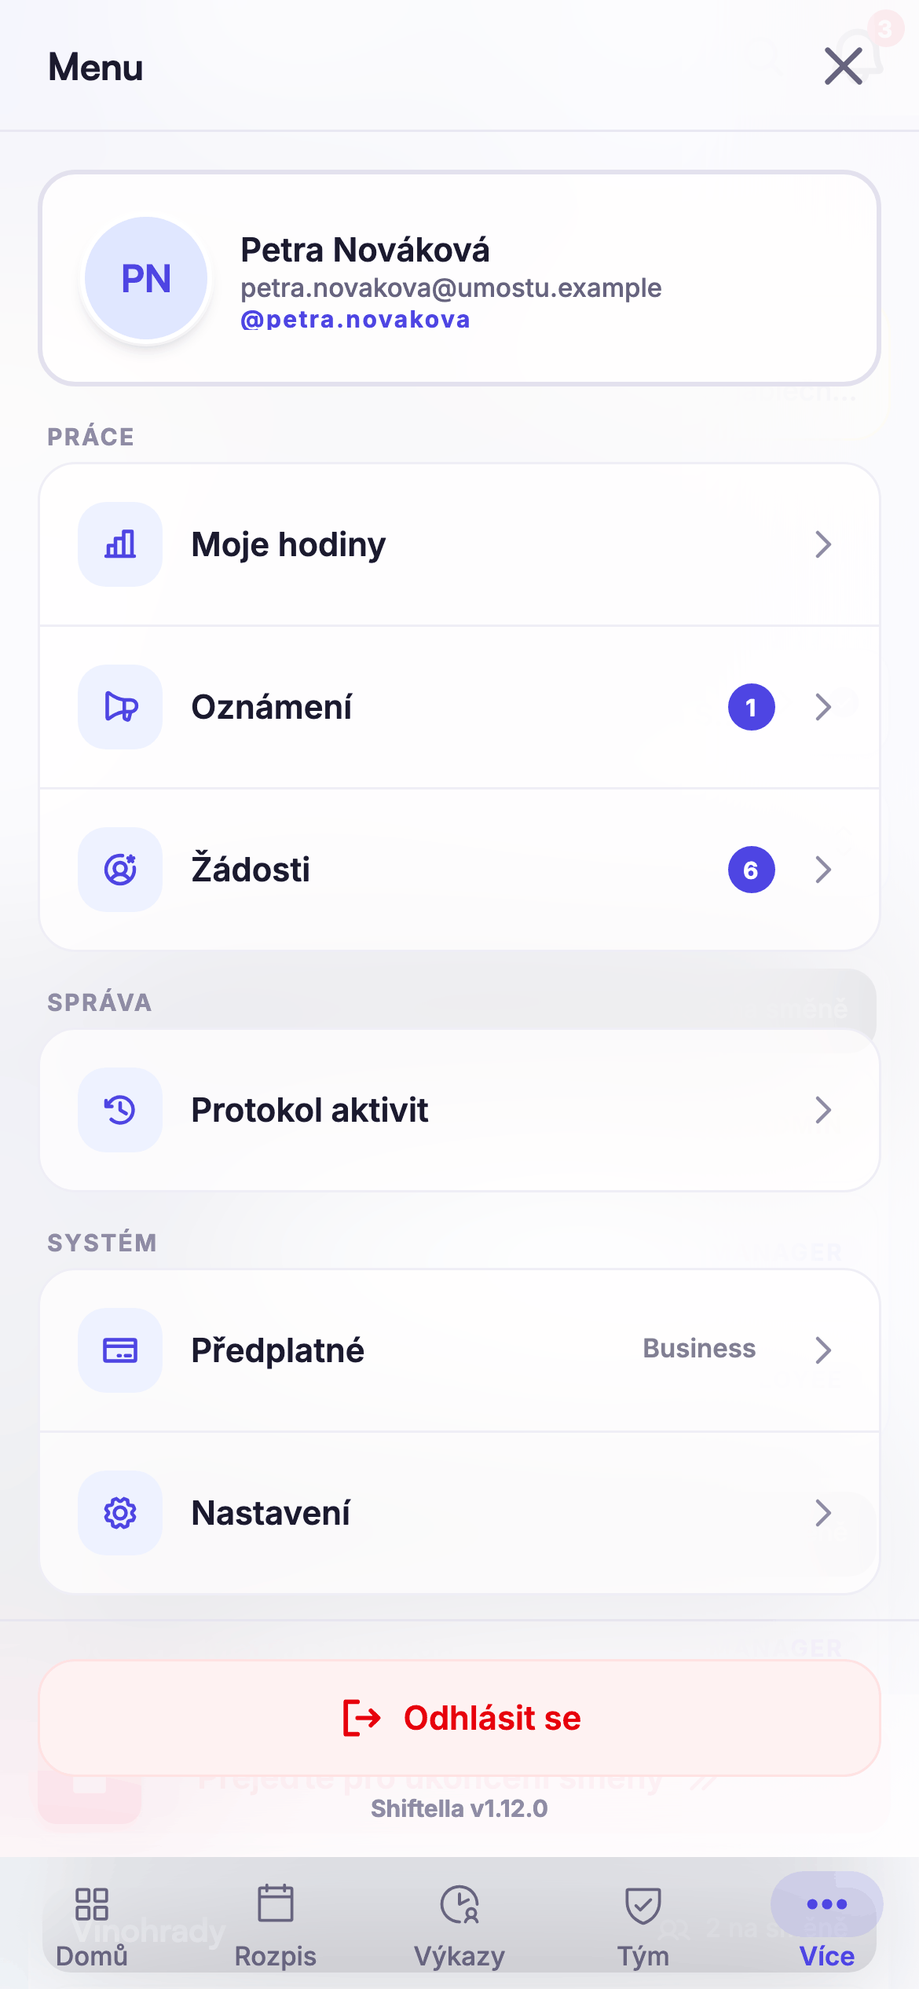
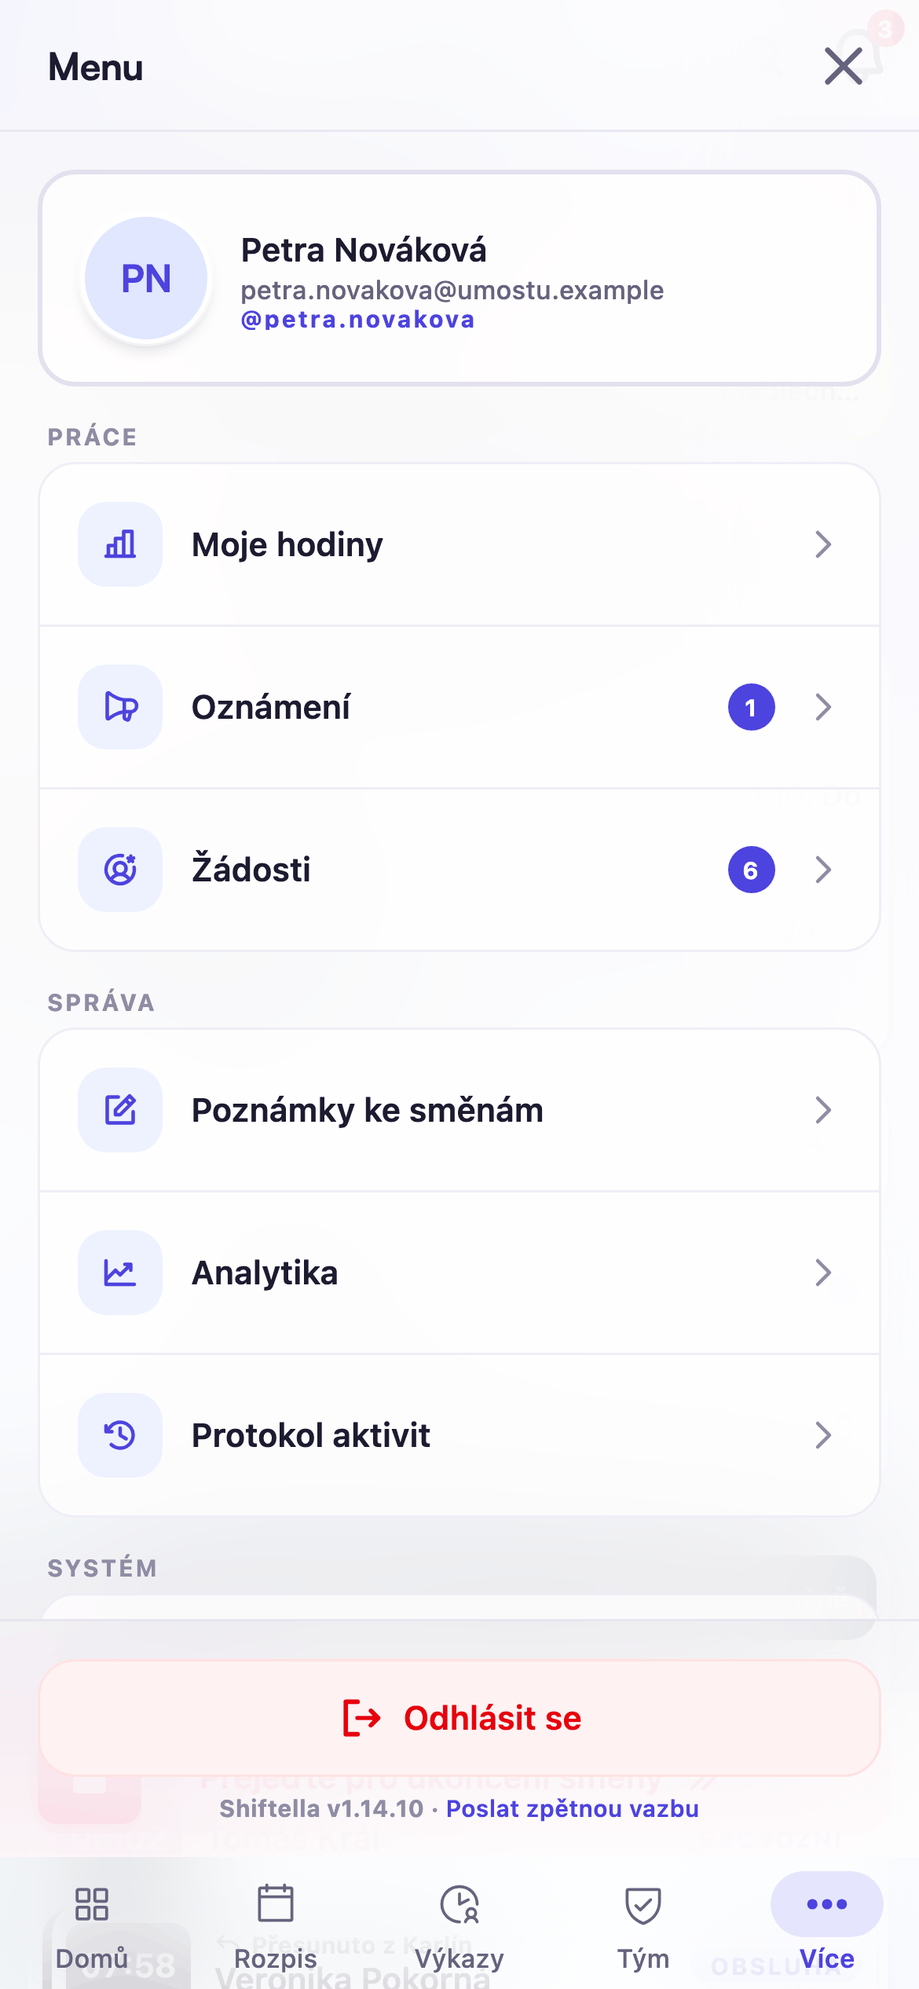
docs: fresh screenshots, ROADMAP up to v1.14.10, README tour additions
- Screenshots re-shot from the current UI (light + dark hero and phones,
  product tour), new analytics + documents rows in the README tour.
- README: rota cost, handover on the live board, the v1.14.2 security pass.
- ROADMAP: v1.14 Frýdlant in Shipped, plan items marked done (reminders, rota
  cost, payroll, documents, notes, targeted announcements, SK/UK, analytics,
  demo, feedback, help, DB security), backlog statuses, recommendations
  rewritten for what's next, codename G next.

diff --git a/ROADMAP.md b/ROADMAP.md
@@ -4,12 +4,25 @@ Living plan for **Shiftella**. Direction, not commitments — dates and scope
 change. Concrete work is tracked as **GitHub Issues** grouped into **Milestones**;
 this file is the high-level story, plus a large **idea backlog** to draw from.
 
-_Last updated: November 24, 2026 · current version 1.13.0 “Ejpovice”._
+_Last updated: November 25, 2026 · current version 1.14.10 “Frýdlant”._
 
 ---
 
 ## ✅ Shipped (recent highlights)
 
+- **v1.14 “Frýdlant”** (1.14.0 – 1.14.10) — **leave**: 12 absence kinds, part-day
+  requests, vacation balance in hours and a **náhradní volno** bank for holiday
+  work; **shift notes & handover** for the next person; **rota cost** in the
+  grid before publishing; **payroll export** (Excel / CSV / Money S3 XML) with
+  personal numbers; **owner analytics** (Business); **employee documents** with
+  expiry reminders; **shift reminders**, a **morning digest** for managers,
+  **targeted announcements** with read receipts and a **setup checklist**;
+  **help centre** and **in-app feedback**; **Slovak and Ukrainian**.
+  Patches: a security pass (server-time clock-in, sign-in rate limit, locked-down
+  push function, 8-character passwords), a new privacy policy, the **enforced
+  CSP**, self-hosted fonts, an **in-browser demo** at `/demo/` (the full app on
+  a sample café, nothing stored), polished layouts and motion on phones and
+  tablets.
 - **v1.13.0 “Ejpovice”** — **Telegram bot** (link from Settings with a one-time
   code; English commands with a button menu: shifts week by week with
   confirm, today, hours month by month, announcements, approve / decline
@@ -56,8 +69,8 @@ _Last updated: November 24, 2026 · current version 1.13.0 “Ejpovice”._
   provisioning flow, realtime board with auto-reconnect, midnight auto-end.
 - **Timesheets & exports** — admin shift management, per-employee & team exports
   (PDF / Excel / CSV) with native share, **Czech-correct PDF fonts**, Activity Log.
-- **Localization & theming** — English / Čeština, 12h/24h, locale-aware dates,
-  four colour motifs + light/dark/system.
+- **Localization & theming** — English / Čeština / Slovenčina / Українська,
+  12h/24h, locale-aware dates, five colour schemes + light/dark/system.
 - **Navigation & mobile** — ⌘K command palette, collapsible icon-rail sidebar,
   searchable location picker, pull-to-refresh, haptics, offline awareness,
   hardware-back handling, control-center “More” menu.
@@ -68,7 +81,8 @@ _Last updated: November 24, 2026 · current version 1.13.0 “Ejpovice”._
 
 ## 🔭 Next — approved plan (owner, 24 November 2026)
 
-Approved by the owner after v1.12.0 “Děčín” shipped. ✅ = shipped in v1.13.0 “Ejpovice”.
+Approved by the owner after v1.12.0 “Děčín” shipped. ✅ = shipped (in v1.13
+“Ejpovice” or v1.14 “Frýdlant”).
 Deliberately left out: DPP/DPČ hour-cap tracking, because it could put off
 customers.
 
@@ -91,48 +105,54 @@ customers.
 - ✅ **Superadmin can't invite into an org at its member limit** — allow it.
 - ✅ **Redeploy the remaining functions** with billing (`delete-account`, plan-aware
   `send-push`; push currently reaches Free orgs too).
-- **Database security** — #99 lock down SECURITY DEFINER helpers, #98 unused
-  indexes, stop `org_plan()` revealing other orgs' plans.
+- **Database security** — ✅ #99 lock down SECURITY DEFINER helpers, ✅ #98
+  unused / missing indexes, ✅ explicit function grants (docs/db-security.md);
+  still open: stop `org_plan()` revealing other orgs' plans.
+- ✅ **Security pass** (external review) — clock-in / out stamped by the server,
+  sign-in rate limit, `send-push` accepts only our webhooks, 8-character
+  passwords.
 - ✅ **E2E tests** (Playwright): sign-in, sign-up, invite, free-beta billing — in CI
   against the fake backend under the enforced CSP; optional read-only suite
   against preprod (docs/e2e.md). Checkout waits for paid plans.
 - ✅ **Uptime alerts** — GitHub Actions every 5 min → Telegram on state change
-  (docs/uptime.md; starts with the next master release).
-- **Infrastructure** — ✅ enforce the prod CSP (in `shiftella.caddy`; install with
-  the release), ✅ Node 22, ✅ local Supabase CLI 3.x; still open: deploy on push,
-  retire Vercel (and the Vercel↔Supabase integration).
+  (docs/uptime.md).
+- **Infrastructure** — ✅ enforce the prod CSP, ✅ self-hosted fonts, ✅ Node 22,
+  ✅ local Supabase CLI 3.x; still open: deploy on push, retire Vercel (and the
+  Vercel↔Supabase integration).
 
 ### 3. Features
 - **Auto-scheduling** — suggest a rota from availability, 11 h rest, hour
   targets and coverage needs; the manager edits and publishes.
 - ✅ **Calendar sync** — your shifts as an ICS feed (Google / Apple Calendar).
-- **Reminders** — push an hour before a shift, “you haven't clocked in”, a
-  manager digest.
+- ✅ **Reminders** — push an hour before a shift, “you haven't clocked in”, a
+  07:00 manager digest.
 - **Trusted clock-in** — kiosk mode (tablet + PIN / QR), geofence check, breaks.
-- **Rota cost** — wages and overtime visible in the grid before publishing.
-- **Payroll exports** for Czech accounting — Pohoda, Money S3.
-- **Employee documents** — contracts, health certificates with expiry reminders.
-- **Shift notes & handover** for the next person.
-- **Targeted announcements** (per location / role) with read receipts.
-- **More languages** — Slovak, Ukrainian, later Polish.
+- ✅ **Rota cost** — wages and overtime visible in the grid before publishing.
+- ✅ **Payroll exports** for Czech accounting — Money S3 XML import; POHODA has no
+  attendance import, so its accountants use the Excel (docs/payroll-export.md).
+- ✅ **Employee documents** — contracts, health certificates with expiry reminders.
+- ✅ **Shift notes & handover** for the next person.
+- ✅ **Targeted announcements** (per location / role) with read receipts.
+- ✅ **More languages** — Slovak, Ukrainian; Polish later.
 - ✅ **Import employees** from Excel / CSV.
-- **Owner analytics** — labour cost share, absences, lateness, busy days.
+- ✅ **Owner analytics** — labour cost share, absences, lateness, busy days
+  (Business plan).
 
 ### 4. Growth
 - ✅ **Landing page on shiftella.app** — product, pricing, FAQ, Czech SEO
   (“plánování směn”, “docházka zaměstnanců”).
-- **Demo organization on sign-up** (reuse the `tools/screenshots` demo data).
+- ✅ **Demo** — done as an **in-browser demo** at `/demo/` on the
+  `tools/screenshots` fake backend: nothing stored, wiped when the tab closes.
 - **Promo video** redone on the real UI (screenshot harness + the existing voice-over).
 - **Store release** — Firebase for `com.shiftella.app`, #89 iOS push, Google /
   Apple sign-in, store listings.
 - **Promo codes & referrals** (“bring a friend — a month free”; Stripe promotion
   codes are already enabled).
 - **Discounts** — non-profits, yearly plans with 30+ people.
-- **In-app feedback**, a status page, a help centre.
+- ✅ **In-app feedback** and ✅ a **help centre**; a status page is still open.
 
 ### 5. Reliability
-- **Error tracking** (e.g. Sentry) and an uptime check on shiftella.app with
-  phone alerts.
+- **Error tracking** (e.g. Sentry); ✅ the uptime check with Telegram alerts is live.
 - **Backup restore drill** for the Supabase database once a quarter.
 
 ---
@@ -143,7 +163,7 @@ Drafts to pull from — not commitments. Rough **value (V)** and **effort (E)** 
 1–5 scale to help triage. Grouped by theme.
 
 ### A. Scheduling depth
-- **Shift swaps / give-away** — a member offers a shift; a teammate claims it;
+- ✅ _(v1.11)_ **Shift swaps / give-away** — a member offers a shift; a teammate claims it;
   manager approves. Closes the loop the rota opens. _(V5 E4)_
 - ✅ _(v1.10)_ **Open shifts / shift bidding** — post an unassigned shift; eligible members
   claim or express interest; manager confirms. _(V4 E4)_
@@ -159,10 +179,11 @@ Drafts to pull from — not commitments. Rough **value (V)** and **effort (E)** 
   re-drawing each month. _(V3 E3)_
 - ✅ _(v1.10)_ **Shift confirmation** — members acknowledge a published shift (“Got it”);
   managers see who hasn’t confirmed. _(V3 E2)_
-- **Conflict & fatigue rules** — warn on back-to-back closes/opens (clopening),
-  <11 h rest between shifts, >X consecutive days. _(V4 E3)_
-- **Budget / labour-cost view** — planned hours × wage per location per week, vs
-  a target; live as you draft. _(V4 E4)_
+- 🟡 _(v1.11: 11 h rest, > 6 days in a row)_ **Conflict & fatigue rules** — warn on
+  back-to-back closes/opens (clopening), <11 h rest between shifts, >X
+  consecutive days. _(V4 E3)_
+- 🟡 _(v1.14 rota cost; no target yet)_ **Budget / labour-cost view** — planned
+  hours × wage per location per week, vs a target; live as you draft. _(V4 E4)_
 
 ### B. Time & attendance
 - **Geofenced / QR clock-in** — only allow clock-in at the location (GPS radius or
@@ -177,38 +198,43 @@ Drafts to pull from — not commitments. Rough **value (V)** and **effort (E)** 
   Overview and exports. _(V3 E3)_
 
 ### C. Manager analytics
-- **Team dashboard** — who’s in today, understaffed locations, pending approvals,
-  late/absent, all on one manager home. _(V5 E3)_
-- **Attendance & punctuality report** — late/no-show counts per member over a
-  period. _(V3 E3)_
-- **Labour-cost & hours trends** — month-over-month hours per location/member,
-  export to payroll. _(V4 E3)_
-- **Forecast vs actual** — planned hours vs worked hours variance. _(V3 E4)_
+- 🟡 _(v1.14 morning digest)_ **Team dashboard** — who’s in today, understaffed
+  locations, pending approvals, late/absent, all on one manager home. _(V5 E3)_
+- ✅ _(v1.14 analytics)_ **Attendance & punctuality report** — late/no-show counts
+  per member over a period. _(V3 E3)_
+- ✅ _(v1.14 analytics + payroll export)_ **Labour-cost & hours trends** — hours and
+  cost per location/member, export to payroll. _(V4 E3)_
+- ✅ _(v1.14 analytics)_ **Forecast vs actual** — planned hours vs worked hours
+  variance. _(V3 E4)_
 
 ### D. Payroll & compliance (Czech-specific)
-- **Payroll export** — a period export shaped for Czech payroll (net hours,
-  overtime, weekend/holiday premiums) as CSV/XLSX. _(V5 E3)_
+- ✅ _(v1.14)_ **Payroll export** — a period export shaped for Czech payroll (net
+  hours, overtime, weekend/holiday premiums) as CSV/XLSX. _(V5 E3)_
 - ✅ _(v1.10)_ **Czech public holidays** — auto-mark státní svátky in the rota + holiday-pay
   flags. _(V4 E2)_
-- **DPP/DPČ hour caps** — warn when a member on a Dohoda approaches the legal
-  monthly/annual hour limit. _(V4 E3)_
+- ⛔ _(left out by the owner — could put off customers)_ **DPP/DPČ hour caps** —
+  warn when a member on a Dohoda approaches the legal monthly/annual hour limit.
+  _(V4 E3)_
 - **Rest-period compliance report** — flag legal rest/break violations for audit. _(V3 E3)_
 
 ### E. Employee experience
-- **My hours & pay estimate** — a member’s running month total + estimated pay
-  (if wage is stored). _(V4 E2)_
-- **Wallet-style shift widget / calendar sync** — subscribe to your rota as an
-  ICS feed or add to Google/Apple Calendar. _(V4 E3)_
+- ✅ _(v1.10)_ **My hours & pay estimate** — a member’s running month total +
+  estimated pay (if wage is stored). _(V4 E2)_
+- 🟡 _(v1.13 ICS feed; no widget)_ **Wallet-style shift widget / calendar sync** —
+  subscribe to your rota as an ICS feed or add to Google/Apple Calendar. _(V4 E3)_
 - ✅ _(v1.10)_ **In-app announcements** — managers post a note to a location/team; shows on
   home with read receipts. _(V3 E3)_
-- **Document sharing** — payslips / contracts / training docs per member. _(V3 E4)_
-- **Onboarding checklist** — guided first-run for new employees. _(V2 E2)_
+- 🟡 _(v1.14 employee documents; no payslips)_ **Document sharing** — payslips /
+  contracts / training docs per member. _(V3 E4)_
+- 🟡 _(v1.14, for new owners)_ **Onboarding checklist** — guided first-run for new
+  employees. _(V2 E2)_
 
 ### F. Communication
 - **Direct + group messaging** — lightweight team chat scoped to org/location
   (or integrate rather than build). _(V3 E5)_
 - **Broadcast + acknowledge** — “Shift covered tonight?” with quick replies. _(V3 E3)_
-- **Email digests** — weekly rota email to each member; daily manager summary. _(V3 E2)_
+- 🟡 _(v1.14 daily manager digest via push / Telegram)_ **Email digests** — weekly
+  rota email to each member; daily manager summary. _(V3 E2)_
 
 ### G. Multi-location & org
 - **Cross-location staff pool** — share staff between sister venues; see who’s
@@ -218,8 +244,8 @@ Drafts to pull from — not commitments. Rough **value (V)** and **effort (E)** 
 - 🟡 _(v1.10, unused yet)_ **Per-location settings** — open hours, timezone, break rules, wage bands. _(V3 E3)_
 
 ### H. Platform & technical
-- **Automated tests + E2E** — Playwright happy-paths in CI (login, clock-in,
-  publish, request time off). Pairs with #97. _(V5 E3)_
+- ✅ _(v1.14: 480+ unit tests, Playwright E2E in CI)_ **Automated tests + E2E** —
+  Playwright happy-paths in CI (login, clock-in, publish, request time off). _(V5 E3)_
 - **Error monitoring** — Sentry (or similar) for web + native crash reporting. _(V4 E2)_
 - **Analytics / product metrics** — privacy-respecting usage analytics to guide
   the roadmap. _(V3 E2)_
@@ -232,9 +258,10 @@ Drafts to pull from — not commitments. Rough **value (V)** and **effort (E)** 
   retention policy. _(V3 E2)_
 
 ### I. Growth & product
-- **Self-serve org signup** — create an organization without manual provisioning;
-  onboarding flow. _(V4 E4)_
-- **Billing / plans** — tiered plans (seats/locations) if this becomes a product. _(V3 E5)_
+- ✅ _(v1.11)_ **Self-serve org signup** — create an organization without manual
+  provisioning; onboarding flow. _(V4 E4)_
+- ✅ _(v1.12, free beta for now)_ **Billing / plans** — tiered plans
+  (seats/locations) if this becomes a product. _(V3 E5)_
 - **Templates by venue type** — starter rosters for café / restaurant / retail. _(V2 E2)_
 - **Referral / multi-tenant admin** — a super-console for managing many orgs. _(V2 E3)_
 
@@ -242,40 +269,32 @@ Drafts to pull from — not commitments. Rough **value (V)** and **effort (E)** 
 - **2FA / stronger auth** for admins (TOTP). _(V4 E3)_
 - **Session management** — see & revoke active devices; force-logout. _(V3 E3)_
 - **Audit export** — download the Activity Log for a period (compliance). _(V3 E2)_
-- 🔜 _(v1.12 custom roles)_ **Granular permissions** — beyond ranks, per-capability toggles for edge orgs. _(V2 E4)_
+- ✅ _(v1.11 custom roles)_ **Granular permissions** — beyond ranks, per-capability toggles for edge orgs. _(V2 E4)_
 
 ---
 
 ## 🧭 Recommendations & advice
 
-Opinionated guidance for where to invest next.
+Opinionated guidance for where to invest next (updated after v1.14).
 
-1. **Close the scheduling loop before adding new surfaces.** The rota is the
-   crown jewel; the highest-leverage follow-ups are **availability/preferences**
-   (A) and **shift swaps** (A) — they make the schedule self-maintaining and are
-   what staff ask for first. Ship those before breadth.
-2. **Make attendance trustworthy.** **Geofenced/QR clock-in** (B) is the single
-   feature that turns “nice rota app” into “system of record” for a restaurant —
-   it stops buddy-punching and off-site clock-ins. High ROI.
-3. **Own the Czech-payroll last mile.** A **payroll-shaped export** + **public
-   holidays** + **DPP/DPČ caps** (D) is a strong, defensible wedge for the local
-   market and turns hours into money — the reason owners keep using it.
-4. **Invest in tests now, not later.** The scheduling logic (quick-fill parity,
-   copy-month week-matching, overlap guard) is intricate and under-tested (#97).
-   Add unit tests + a handful of Playwright E2E happy-paths in CI before the code
-   grows further — cheaper than debugging regressions in production.
-5. **Add error monitoring early.** Sentry (web + native) will surface real
-   user-facing failures you can’t see from here — especially on iOS once push
-   lands. Two hours of setup, outsized payoff.
-6. **Guard the roadmap with product metrics.** Lightweight, privacy-respecting
-   analytics (which features are used, where people drop off) will tell you which
-   of the 40+ ideas above are worth building. Decide with data.
-7. **Keep the bundle lean.** Exports already lazy-load; do the same for the
-   schedule grid and any future heavy view, and track bundle size in CI so it
-   doesn’t creep.
-8. **Accessibility is close — finish it.** The UI is polished; a focused a11y
-   pass (contrast on bright motifs, focus rings, ARIA, keyboard through the grid)
-   gets you to WCAG AA and widens who can use it.
+1. **Get the money side ready before the beta ends.** Czech-compliant invoices,
+   the DPA and trial / dunning emails (plan §1) are what stands between the free
+   beta and the first paying customer.
+2. **Make attendance trustworthy.** **Kiosk / QR / geofenced clock-in** (B) is the
+   single feature that turns “nice rota app” into “system of record” for a
+   restaurant — it stops buddy-punching and off-site clock-ins. High ROI.
+3. **Ship to the stores.** iOS push (#89), Firebase for `com.shiftella.app`,
+   Google / Apple sign-in and store listings — staff expect an app, not a link.
+4. **Add error monitoring.** Sentry (web + native) will surface real user-facing
+   failures that uptime checks and E2E can't see. Two hours of setup.
+5. **Auto-scheduling next.** Availability, rest rules, coverage targets and rota
+   cost are all in place — a suggested rota is now mostly assembly.
+6. **Decide with data.** Lightweight, privacy-respecting product metrics (which
+   features are used, where people drop off) will show which ideas above earn
+   their place.
+7. **Keep the bundle lean and finish accessibility.** Lazy-load heavy views,
+   track bundle size in CI, and do a focused a11y pass (contrast, focus, keyboard
+   through the grid) to reach WCAG AA.
 
 ---
 
@@ -284,6 +303,6 @@ Opinionated guidance for where to invest next.
 - **Issues** — one per concrete task, labelled by `area:*` and `priority:*`.
 - **Milestones** — group issues into shippable chunks.
 - **Releases** — semver tags (`vX.Y.Z`) + GitHub Releases with changelogs; notable
-  releases carry a Czech-town codename A→Z (v1.9.0 = _Adamov_, v1.10.0 = _Beroun_, v1.11.0 = _Cheb_, v1.12.0 = _Děčín_, v1.13.0 = _Ejpovice_; next = _F_).
+  releases carry a Czech-town codename A→Z (v1.9.0 = _Adamov_, v1.10.0 = _Beroun_, v1.11.0 = _Cheb_, v1.12.0 = _Děčín_, v1.13.0 = _Ejpovice_, v1.14.0 = _Frýdlant_; next = _G_).
 
 Have an idea or found a bug? Open an issue.

diff --git a/README.md b/README.md
@@ -66,7 +66,8 @@ server, and everything resets when you leave.
 
 ### Live board
 Who is on shift right now, per location, updating in real time. Your own shift,
-the next one and a team announcement sit on top; one tap starts or ends a shift.
+the handover from the last shift, your shift note, the next shift and a team
+announcement sit on top; one tap starts or ends a shift.
 
 </td>
 <td width="50%"><img src="docs/screenshots/desktop-dashboard.png" alt="Home: live board" /></td>
@@ -127,6 +128,28 @@ mobile tab bar and one-tap actions with Undo keep frequent work to a single tap.
 
 </td>
 </tr>
+<tr>
+<td width="50%" valign="top">
+
+### Analytics for the owner
+Hours against the plan, labour cost per location, absences by type, who comes
+late and the busiest hours and weekdays — for any period and location, with a
+per-person table underneath.
+
+</td>
+<td width="50%"><img src="docs/screenshots/analytics.png" alt="Owner analytics" /></td>
+</tr>
+<tr>
+<td width="50%"><img src="docs/screenshots/documents.png" alt="Employee documents" /></td>
+<td width="50%" valign="top">
+
+### Documents with expiry dates
+Contracts, health and food-handling cards and BOZP training live on each
+person's profile in private storage. Expiring ones turn amber, expired ones red,
+and the right people get a reminder 30, 7 and 0 days ahead.
+
+</td>
+</tr>
 </table>
 
 ---
@@ -137,7 +160,7 @@ mobile tab bar and one-tap actions with Undo keep frequent work to a single tap.
 | --- | --- |
 | ⏱ **Clock in / out** | By location, live board of who's on shift (Realtime), auto-end at midnight |
 | 📝 **Shift notes** | Notes on your shift, a handover card for the next person, a manager list per day and location |
-| 🗓 **Rota** | Roster grid + month calendar, templates, copy month, draft → publish, open shifts, swaps |
+| 🗓 **Rota** | Roster grid + month calendar, templates, copy month, draft → publish, open shifts, swaps, rota cost |
 | 🇨🇿 **Czech rules** | 11 h rest, max 6 days in a row, mandatory breaks, public holidays, vacation counted in hours |
 | 📥 **Requests** | Time off of 12 kinds, swaps, role requests, complaints (optionally anonymous), four-eyes decisions |
 | 🏖 **Leave balances** | Vacation entitlement and balance in hours per year, a náhradní volno bank for holiday work |
@@ -220,6 +243,8 @@ mobile tab bar and one-tap actions with Undo keep frequent work to a single tap.
 - **Location opening hours** — a location's hours are its default shift: the
   location letter in the grid means "the whole opening time", and planning
   outside the hours is flagged.
+- **Rota cost** — planned hours × wages and overtime show in the grid, so the
+  cost of a month is visible before it is published.
 - **Rest rules (Czech labour law)** — the grid warns when someone gets less than
   11 h between two shifts or works more than 6 days in a row.
 - **Shift swaps** — a member offers an upcoming shift (to anyone or one
@@ -652,6 +677,10 @@ run it against **preprod** (SQL editor, or `psql -f`).
   same access rule as their table.
 - New database functions get explicit `REVOKE` / `GRANT` — see
   [docs/db-security.md](docs/db-security.md).
+- Clock-in and clock-out are stamped with the **server's time**; sign-in is
+  rate-limited (8 wrong passwords per username or 30 per IP lock it for
+  15 minutes); passwords need at least 8 characters; the push function accepts
+  only the database's own webhooks.
 
 ---
 
